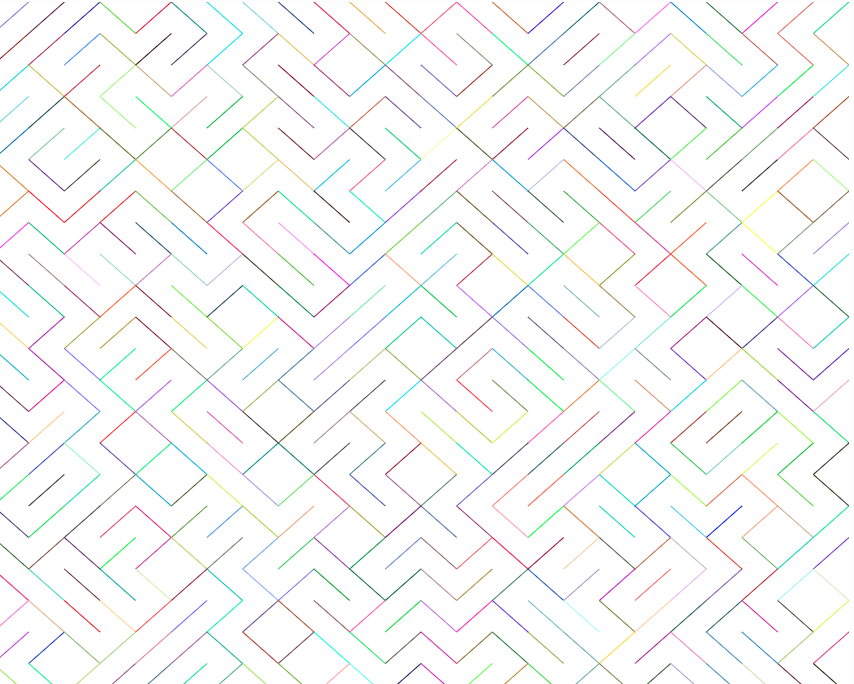
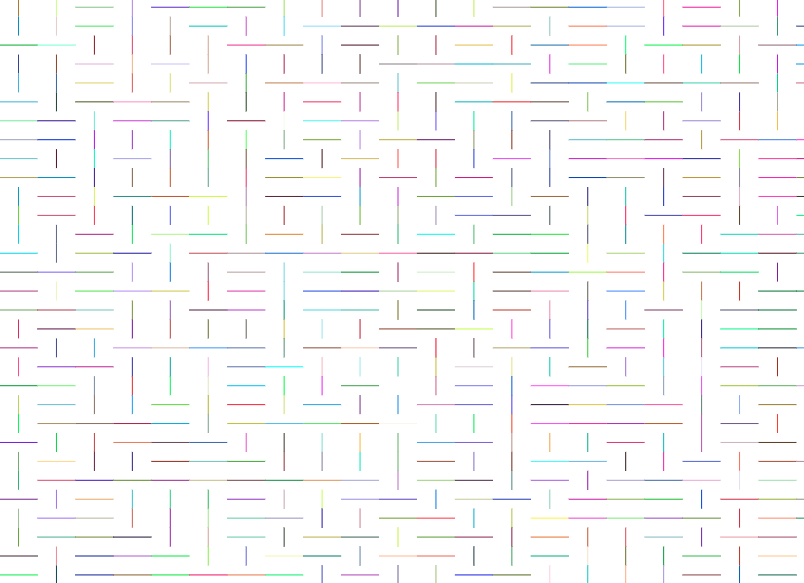
Improve the art setting

Changed region(s): [[0.0, 0.0, 1.0, 1.0], [0.9639, 0.0, 0.995, 0.0309]]

diff --git a/src/_adaptationConfigs/generateArt.js b/src/_adaptationConfigs/generateArt.js
@@ -1,3 +1,5 @@
+import {gradientPalettes} from "../palettes";
+
 export default {
 	title: "Generate Art",
 	fileName: "generate_art",
@@ -11,7 +13,7 @@ export default {
 			key: "hasColor",
 			text: "Has color",
 			type: "select",
-			defaultValue: false,
+			defaultValue: true,
 
 			options: [
 				{key: 0, text: "Off", value: false},
@@ -23,7 +25,7 @@ export default {
 			key: "shape",
 			text: "Shape",
 			type: "select",
-			defaultValue: 'diagonal',
+			defaultValue: 'orthogonals',
 
 			options: [
 				{key: 0, text: "Diagonals", value: 'diagonal'},
@@ -37,9 +39,17 @@ export default {
       key: "iteration",
       text: "Iteration",
       type: "range",
-      defaultValue: 15,
+      defaultValue: 30,
       min: 1,
-      max: 30,
-    },
+      max: 100,
+		},
+
+		{
+      key: "palette",
+      text: "Palettes",
+      type: "palette",
+      defaultValue: gradientPalettes[0],
+      options: gradientPalettes
+    }
 	],
 };

diff --git a/src/_adaptationConfigs/gradientWaves.js b/src/_adaptationConfigs/gradientWaves.js
@@ -1,5 +1,12 @@
 import {gradientPalettes} from "../palettes";
 
+const ownPallete = [
+  ['#f3bae3', '#4a6289'],
+  ['#00c9ff', '#367e3c'],
+  ['#8e2de2', '#21045b'],
+  ...gradientPalettes,
+];
+
 export default {
 	title: "Gradient Waves",
 	fileName: "gradient_waves",
@@ -13,7 +20,7 @@ export default {
       key: "amplituteY",
       text: "Amplitude Y",
       type: "range",
-      defaultValue: 30,
+      defaultValue: 60,
       min: 30,
       max: 150,
     },
@@ -22,7 +29,7 @@ export default {
       key: "amplituteX",
       text: "Amplitude X",
       type: "range",
-      defaultValue: 30,
+      defaultValue: 60,
       min: 30,
       max: 150,
     },
@@ -61,8 +68,8 @@ export default {
       key: "palette",
       text: "Palettes",
       type: "palette",
-      defaultValue: gradientPalettes[0],
-      options: gradientPalettes
+      defaultValue: ownPallete[0],
+      options: ownPallete
     }
 	],
 };

diff --git a/public/adaptations/generate_art.js b/public/adaptations/generate_art.js
@@ -185,7 +185,12 @@ function create() {
 
 		for (var i = 0; i < coordGrid.length; i++) {
 			if (isColourful) {
-				ctx.strokeStyle = "#" + Math.floor(Math.random() * 16777215).toString(16);
+				if(i % 2 === 1) {
+					ctx.strokeStyle = window.palette[0];
+				} else {
+					ctx.strokeStyle = window.palette[1];
+				}
+
 			}
 
 			const startCoord = coordGrid[i];

diff --git a/public/adaptations/generate_art.html b/public/adaptations/generate_art.html
@@ -25,6 +25,7 @@
       window.shape = config.shape;
       window.iteration = config.iteration;
       window.hasColor = config.hasColor;
+      window.palette = config.palette;
       window.create();
       initialized = true;
     }

diff --git a/src/_adaptationConfigs/pulse.js b/src/_adaptationConfigs/pulse.js
@@ -12,7 +12,7 @@ export default {
 			key: "theme",
 			text: "Theme",
 			type: "select",
-			defaultValue: 1,
+			defaultValue: 255,
 
 			options: [
         { key: 0, text: "Light", value: 255 },
